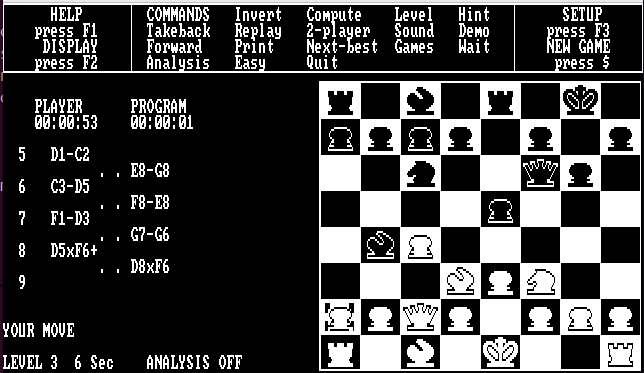
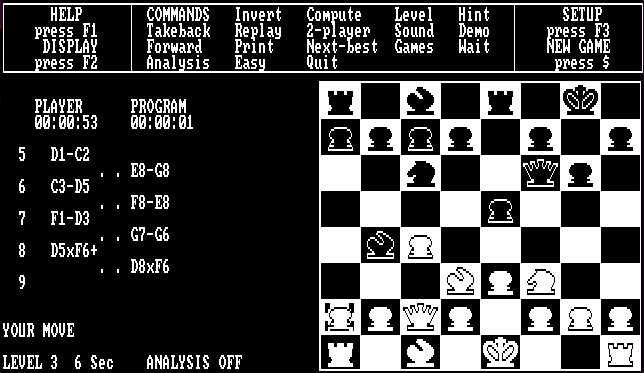
Remove some visual artifacts from the screenshot and center it.

Changed region(s): [[0.0, 0.0, 1.0, 0.0295], [0.0, 0.0885, 0.0311, 1.0]]

diff --git a/README.md b/README.md
@@ -1,6 +1,8 @@
 # Psion Chess as a UCI engine
 
-![Psion Chess running in DOSBox](screenshot.png)
+<p align="center">
+  <img src="screenshot.png">
+</p>
 
 Psion Chess (Richard Lang, 1985) is a DOS program. This project runs it in
 a stripped-down, headless DOSBox and adds an adapter that speaks the UCI
